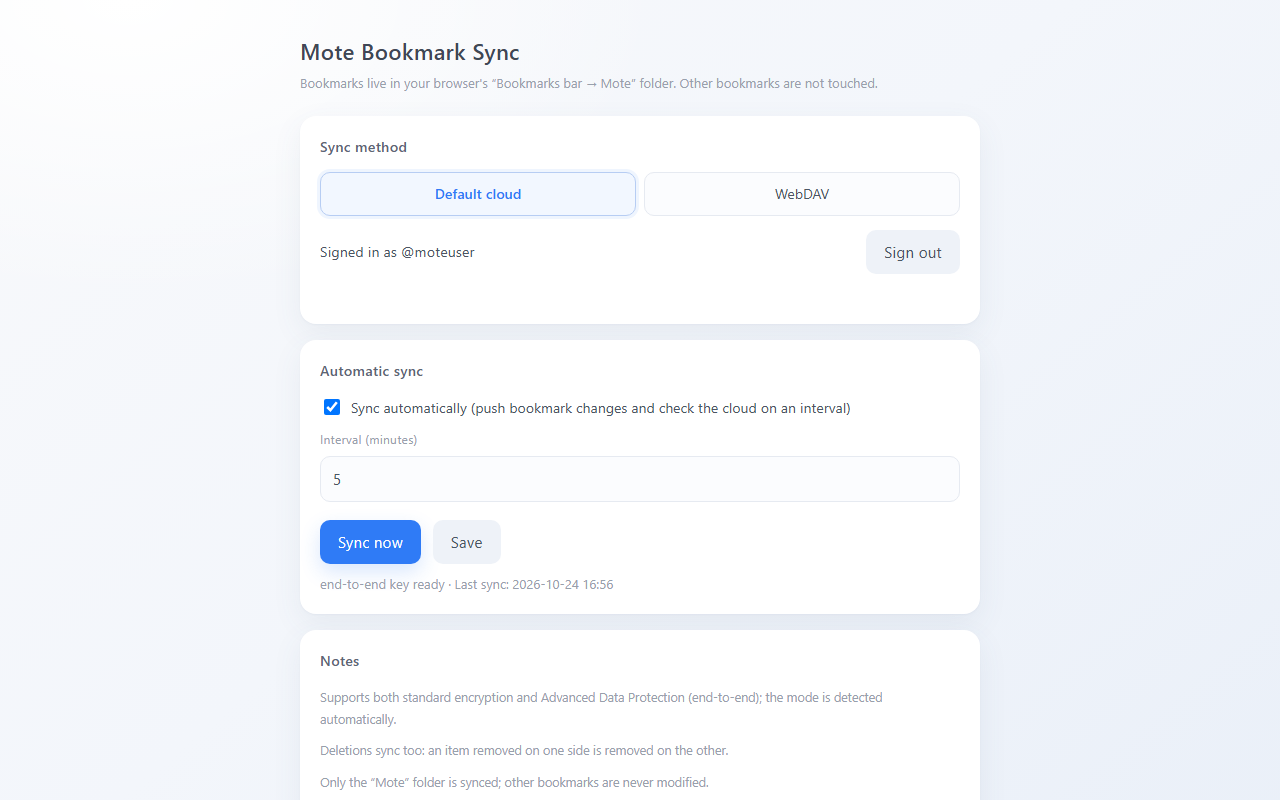
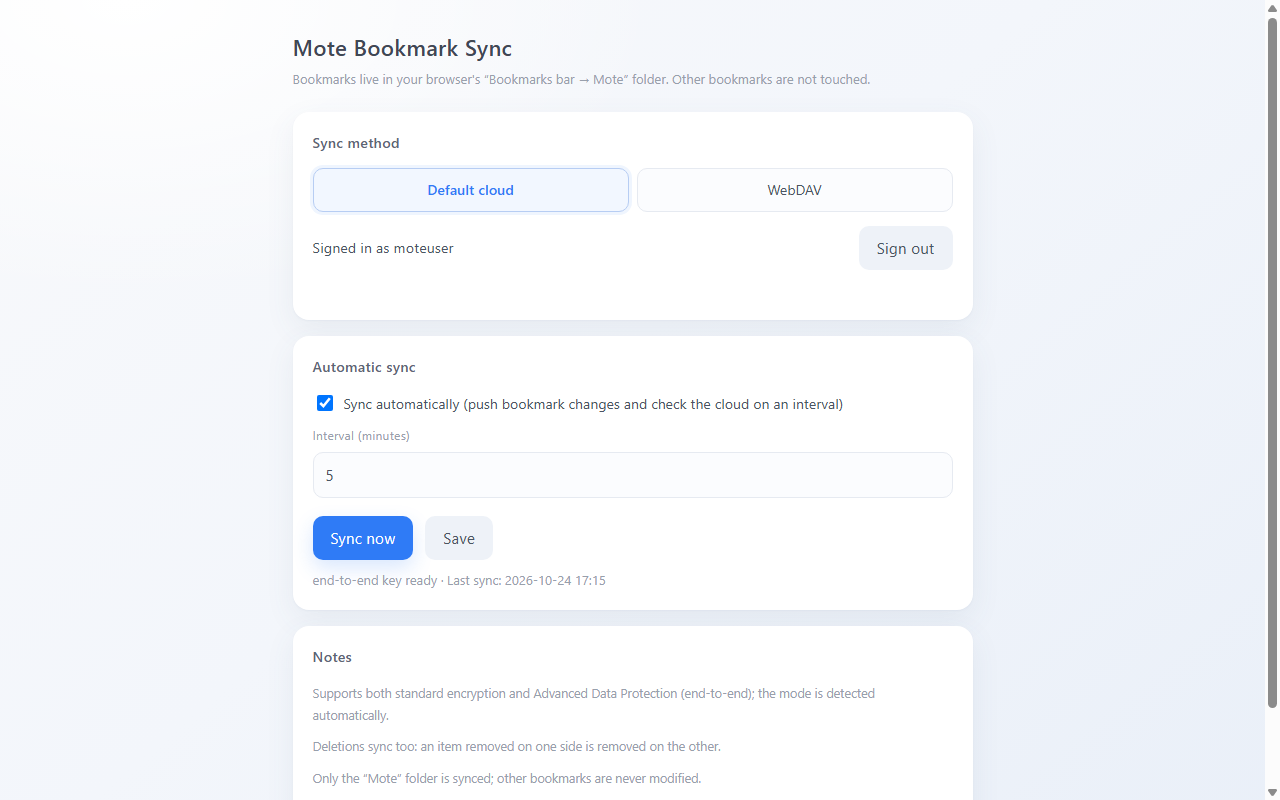
扩展：修复退出登录后无法输入，登录态文案与底部间距调整
- 退出登录改为整页重载，回到干净的未登录状态

- 登录后显示「已登录：用户名」，去掉 @ 前缀

- 设置页底部留白从 60px 减到 28px

diff --git a/extension/i18n.js b/extension/i18n.js
@@ -62,7 +62,7 @@
     "bgDavWrite": "WebDAV write failed: HTTP $1$",
     "bgBadResp": "Unexpected response: $1$",
     "bgReqFail": "Request failed",
-    "statusSignedInAs": "Signed in as @$1$",
+    "statusSignedInAs": "Signed in as $1$",
     "btnLogout": "Sign out",
     "msgSigningOut": "Signing out…"
 },
@@ -127,7 +127,7 @@
     "bgDavWrite": "WebDAV 写入失败：HTTP $1$",
     "bgBadResp": "接口返回异常：$1$",
     "bgReqFail": "请求失败",
-    "statusSignedInAs": "已登录：@$1$",
+    "statusSignedInAs": "已登录：$1$",
     "btnLogout": "退出登录",
     "msgSigningOut": "正在退出…"
 }

diff --git a/extension/options.js b/extension/options.js
@@ -125,7 +125,8 @@ $("logoutBtn").addEventListener("click", async () => {
   if (r.ok) {
     setStatus($("saveStatus"), "");
     $("password").value = "";
-    await load();
+    // 整页重载，保证回到干净的未登录状态，输入框可正常聚焦
+    location.reload();
   } else {
     setStatus($("saveStatus"), t("msgSaveFailed", [r.error || ""]), "err");
   }

diff --git a/extension/options.html b/extension/options.html
@@ -10,7 +10,7 @@
   }
   *{box-sizing:border-box}
   body{
-    margin:0;padding:34px 20px 60px;
+    margin:0;padding:30px 20px 28px;
     font:15px/1.6 -apple-system,BlinkMacSystemFont,"Segoe UI","PingFang SC","Microsoft YaHei",sans-serif;
     color:var(--text);
     background:
